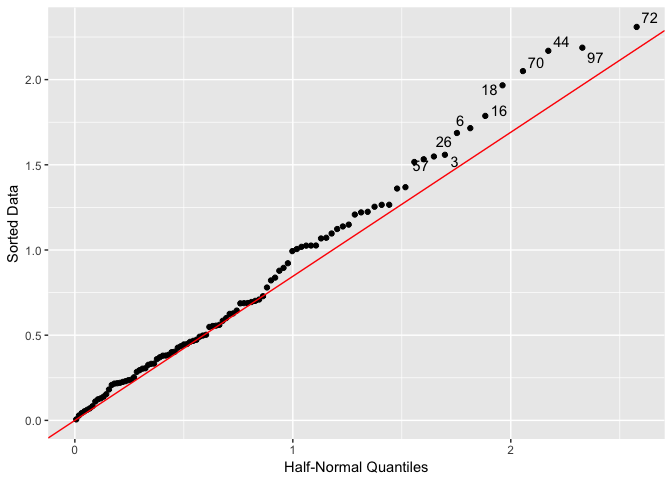
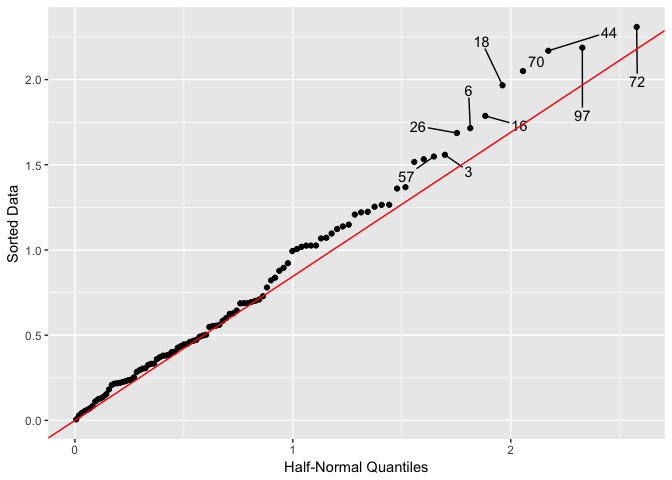
Add missing ellipsis and rerun README

diff --git a/README.md b/README.md
@@ -20,7 +20,7 @@ The function can also make use of the `geom_text_repel` function from the [ggrep
 
 ``` r
 set.seed(123)
-gghalfnorm(x = rnorm(100), nlab = 10, repel = TRUE)
+gghalfnorm(x = rnorm(100), nlab = 10, repel = TRUE, box.padding = unit(1, "lines"))
 ```
 
 ![](README-repel-1.png)
